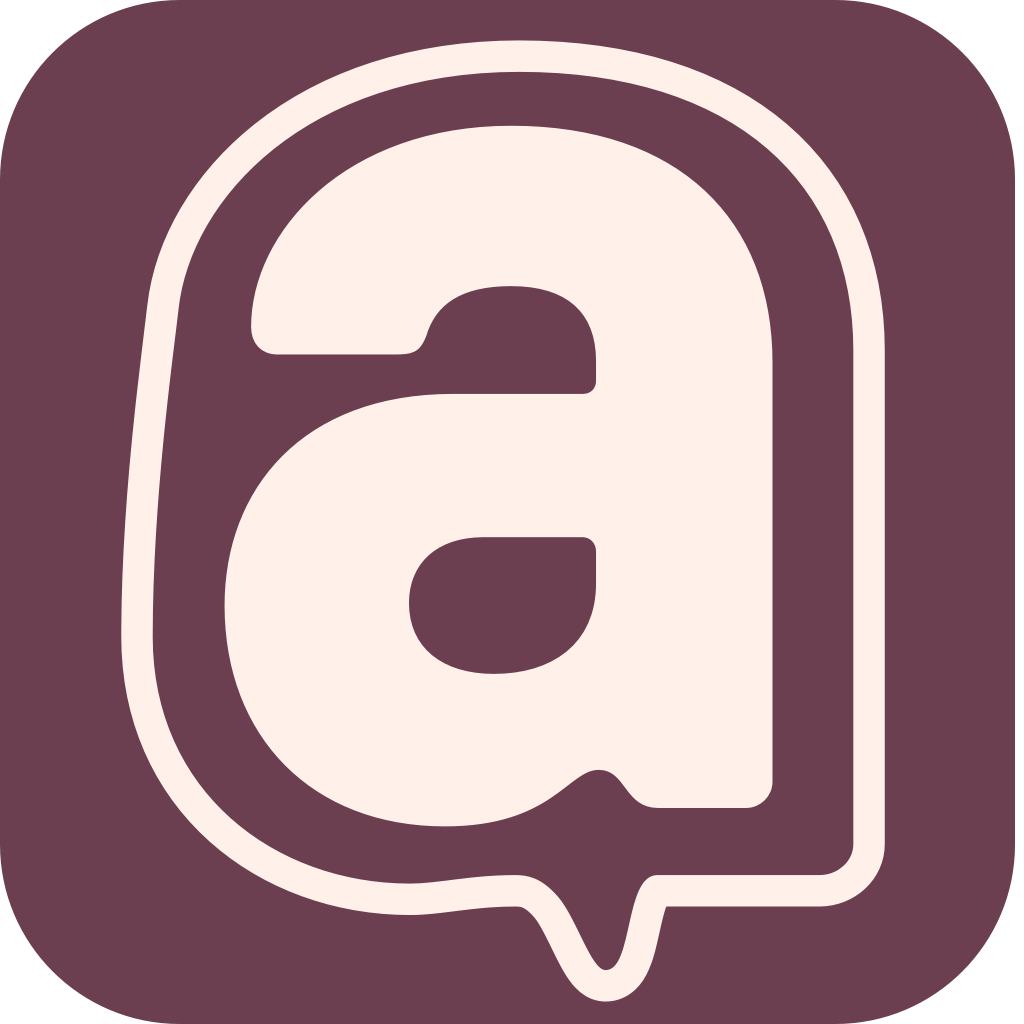
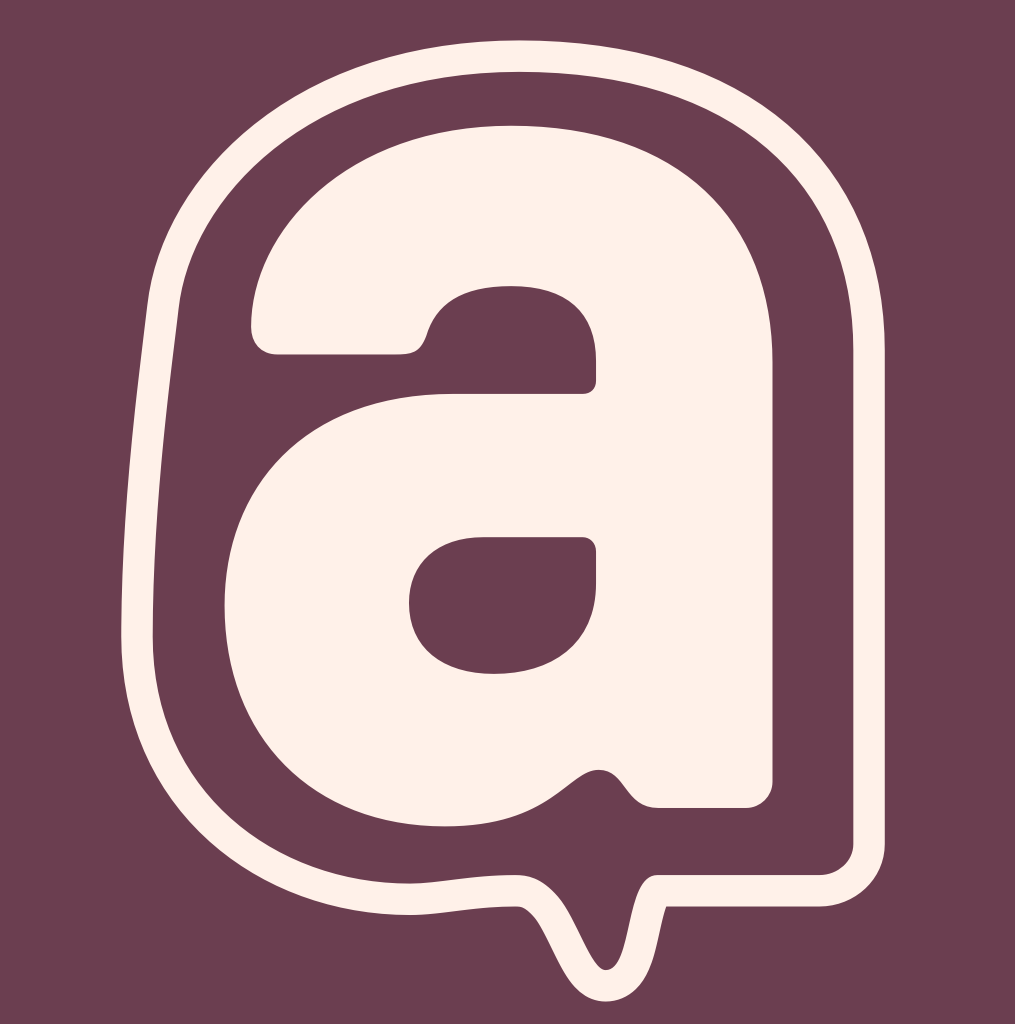
attempt at archiving mobile app

diff --git a/infra/deploy/digitalocean/configure.html b/infra/deploy/digitalocean/configure.html
@@ -83,9 +83,9 @@ with your phone (with the app installed) to sign up as the first user.</p>
      via .textContent without parsing, so no escaping of $VARS is needed. -->
 <script type="text/plain" id="cloudinit_template">#cloud-config
 #
-# ════════════════════════════════════════════════════════════════════════════
-#  Avalanche homeserver — one-shot DigitalOcean bootstrap
-# ════════════════════════════════════════════════════════════════════════════
+# ============================================================================
+#  Avalanche homeserver -- one-shot DigitalOcean bootstrap
+# ============================================================================
 #  Generated by configure.html. Edit there, not here.
 
 write_files:
@@ -170,7 +170,10 @@ write_files:
       sudo -u postgres pg_dump --clean --if-exists avalanche \
           | gzip > "/var/backups/avalanche/pre-migrate-$ts.sql.gz"
       systemctl stop avalanche
-      if ! sudo -u avalanche "$NEW" migrate; then
+      # `sudo -u` does not load EnvironmentFile, so pull DATABASE_URL out of
+      # the same env file systemd uses.
+      set -a; . /etc/avalanche/avalanche.env; set +a
+      if ! sudo -u avalanche env DATABASE_URL="$DATABASE_URL" "$NEW" migrate; then
           rm -f "$NEW"
           systemctl start avalanche
           exit 1
@@ -192,13 +195,13 @@ write_files:
     content: |
       #!/bin/bash
       set -e
-      echo "── service ──────────────────────────────────────"
+      echo "-- service --------------------------------------"
       systemctl is-active avalanche caddy postgresql || true
       echo
-      echo "── public URL ───────────────────────────────────"
+      echo "-- public URL -----------------------------------"
       grep '^SERVER_URL=' /etc/avalanche/avalanche.env | cut -d= -f2-
       echo
-      echo "── first invite ─────────────────────────────────"
+      echo "-- first invite ---------------------------------"
       if [ -f /var/lib/avalanche/first-invite.txt ]; then
           cat /var/lib/avalanche/first-invite.txt
           echo
@@ -249,7 +252,9 @@ write_files:
 
       ufw default deny incoming
       ufw default allow outgoing
-      ufw allow 22/tcp 80/tcp 443/tcp
+      ufw allow 22/tcp
+      ufw allow 80/tcp
+      ufw allow 443/tcp
       ufw --force enable
 
       useradd --system --home /var/lib/avalanche --shell /usr/sbin/nologin avalanche || true
@@ -282,19 +287,15 @@ write_files:
       chown root:avalanche /etc/avalanche/avalanche.env
       chmod 640 /etc/avalanche/avalanche.env
 
-      if [ -n "${AVALANCHE_BINARY_URL:-}" ]; then
-          curl -fsSL -o /usr/local/lib/avalanche/avalanche-server "$AVALANCHE_BINARY_URL"
-          chmod +x /usr/local/lib/avalanche/avalanche-server
-      else
-          touch /usr/local/lib/avalanche/MISSING_BINARY
-      fi
+      curl -fsSL -o /usr/local/lib/avalanche/avalanche-server __BINARY_URL__
+      chmod +x /usr/local/lib/avalanche/avalanche-server
 
       systemctl daemon-reload
       systemctl enable --now caddy
-      if [ -x /usr/local/lib/avalanche/avalanche-server ]; then
-          sudo -u avalanche /usr/local/lib/avalanche/avalanche-server migrate
-          systemctl enable --now avalanche
-      fi
+      # `sudo -u` does not load EnvironmentFile, so pass DATABASE_URL explicitly.
+      sudo -u avalanche env DATABASE_URL='postgresql:///avalanche?host=/var/run/postgresql' \
+          /usr/local/lib/avalanche/avalanche-server migrate
+      systemctl enable --now avalanche
 
       # Save the operator's invite for `avalanche-status` to display.
       cat > /var/lib/avalanche/first-invite.txt <<EOF
@@ -327,6 +328,10 @@ const TEMPLATE = document.getElementById('cloudinit_template').textContent;
 const FIELDS = ['server_url', 'server_name'];
 const RELAY_URL = 'https://relay.theavalanche.net';
 const INVITE_DOMAIN = 'go.theavalanche.net';
+// Bump this when cutting a new homeserver release. The cloud-init pulls the
+// binary from the matching GitHub Releases asset.
+const RELEASE_VERSION = '0.1.0';
+const BINARY_URL = `https://github.com/lincolnq/actnet/releases/download/${RELEASE_VERSION}/avalanche-server`;
 
 function inviteUrl(serverUrl) {
   // Matches dev-invite.py: base64url(JSON({"server_url": ...})), no padding.
@@ -345,6 +350,7 @@ function render() {
     .replace('__SERVER_URL__', values.server_url)
     .replace('__SERVER_NAME__', values.server_name)
     .replace('__RELAY_URL__', RELAY_URL)
+    .replace('__BINARY_URL__', BINARY_URL)
     .replace('__INVITE_URL__', url);
   document.getElementById('cloudinit_out').value = cloudinit;
 